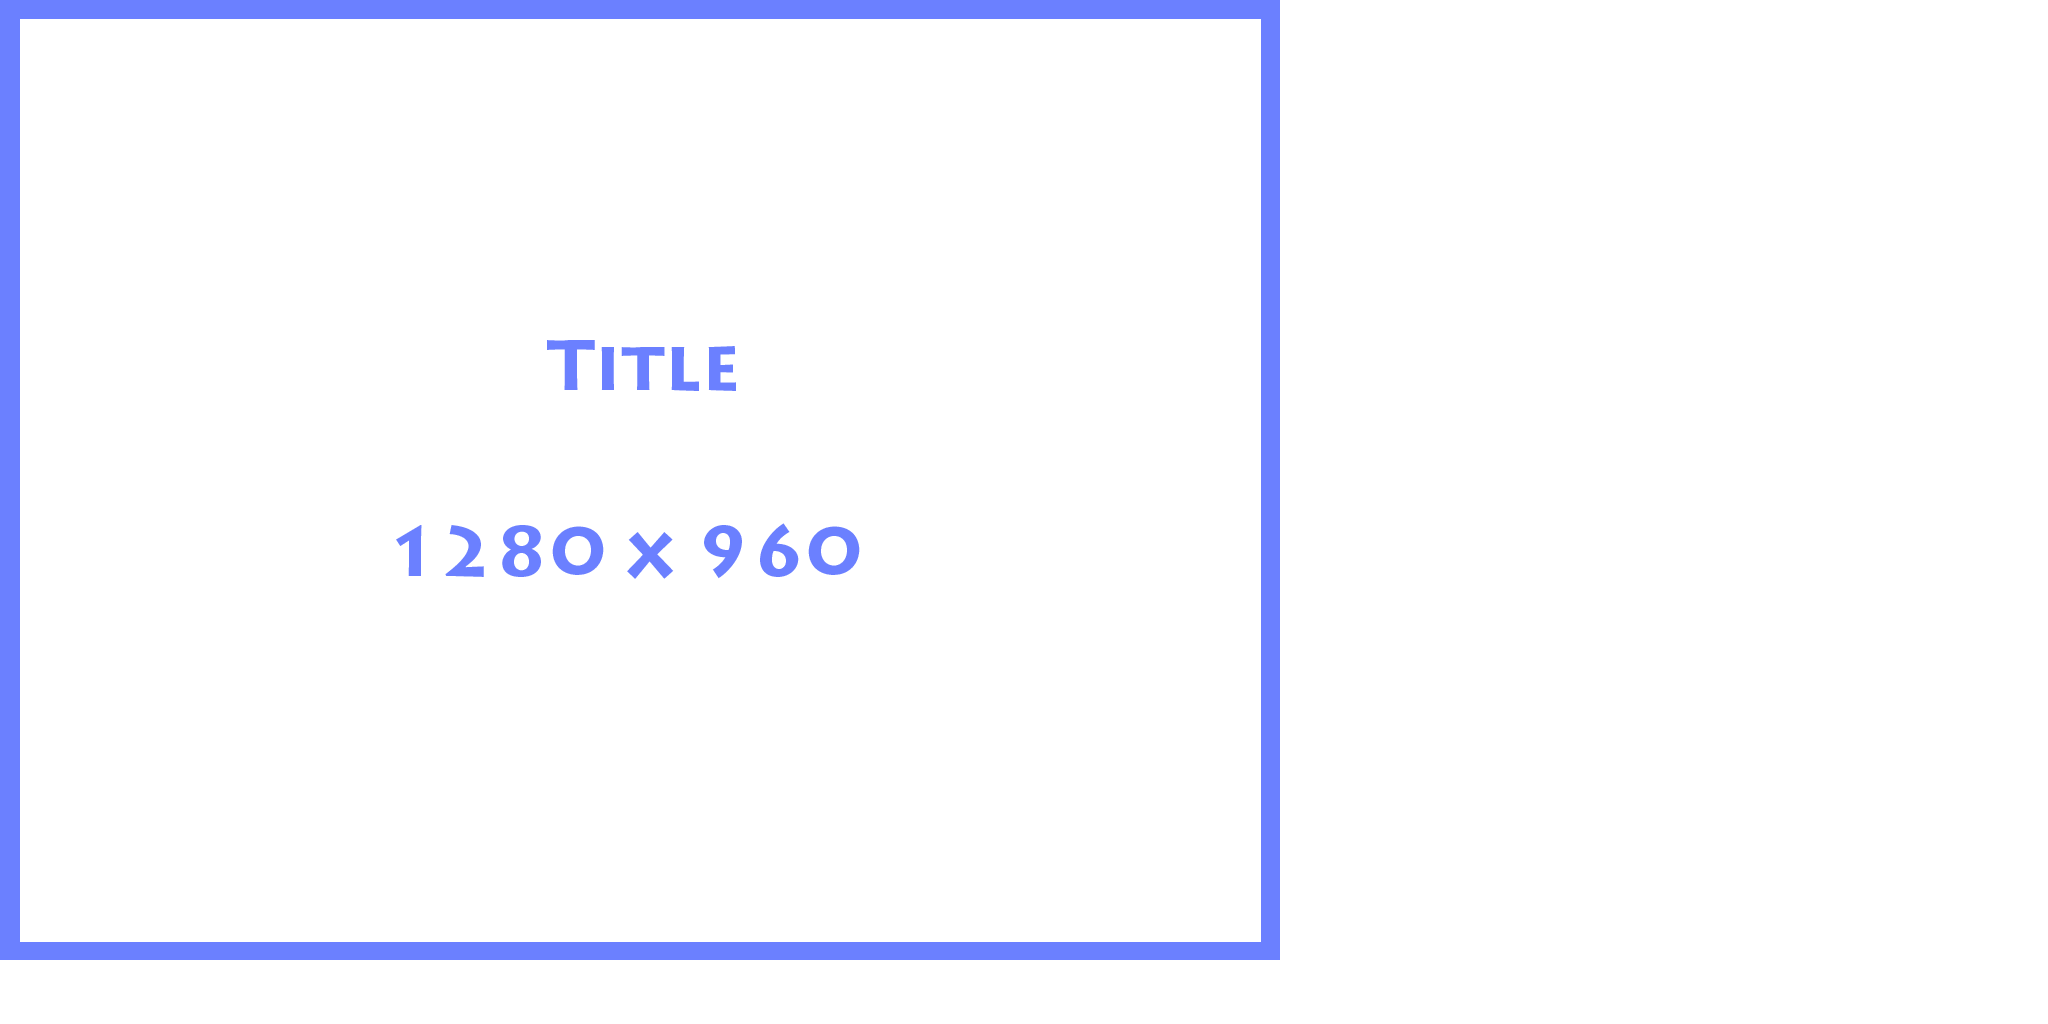
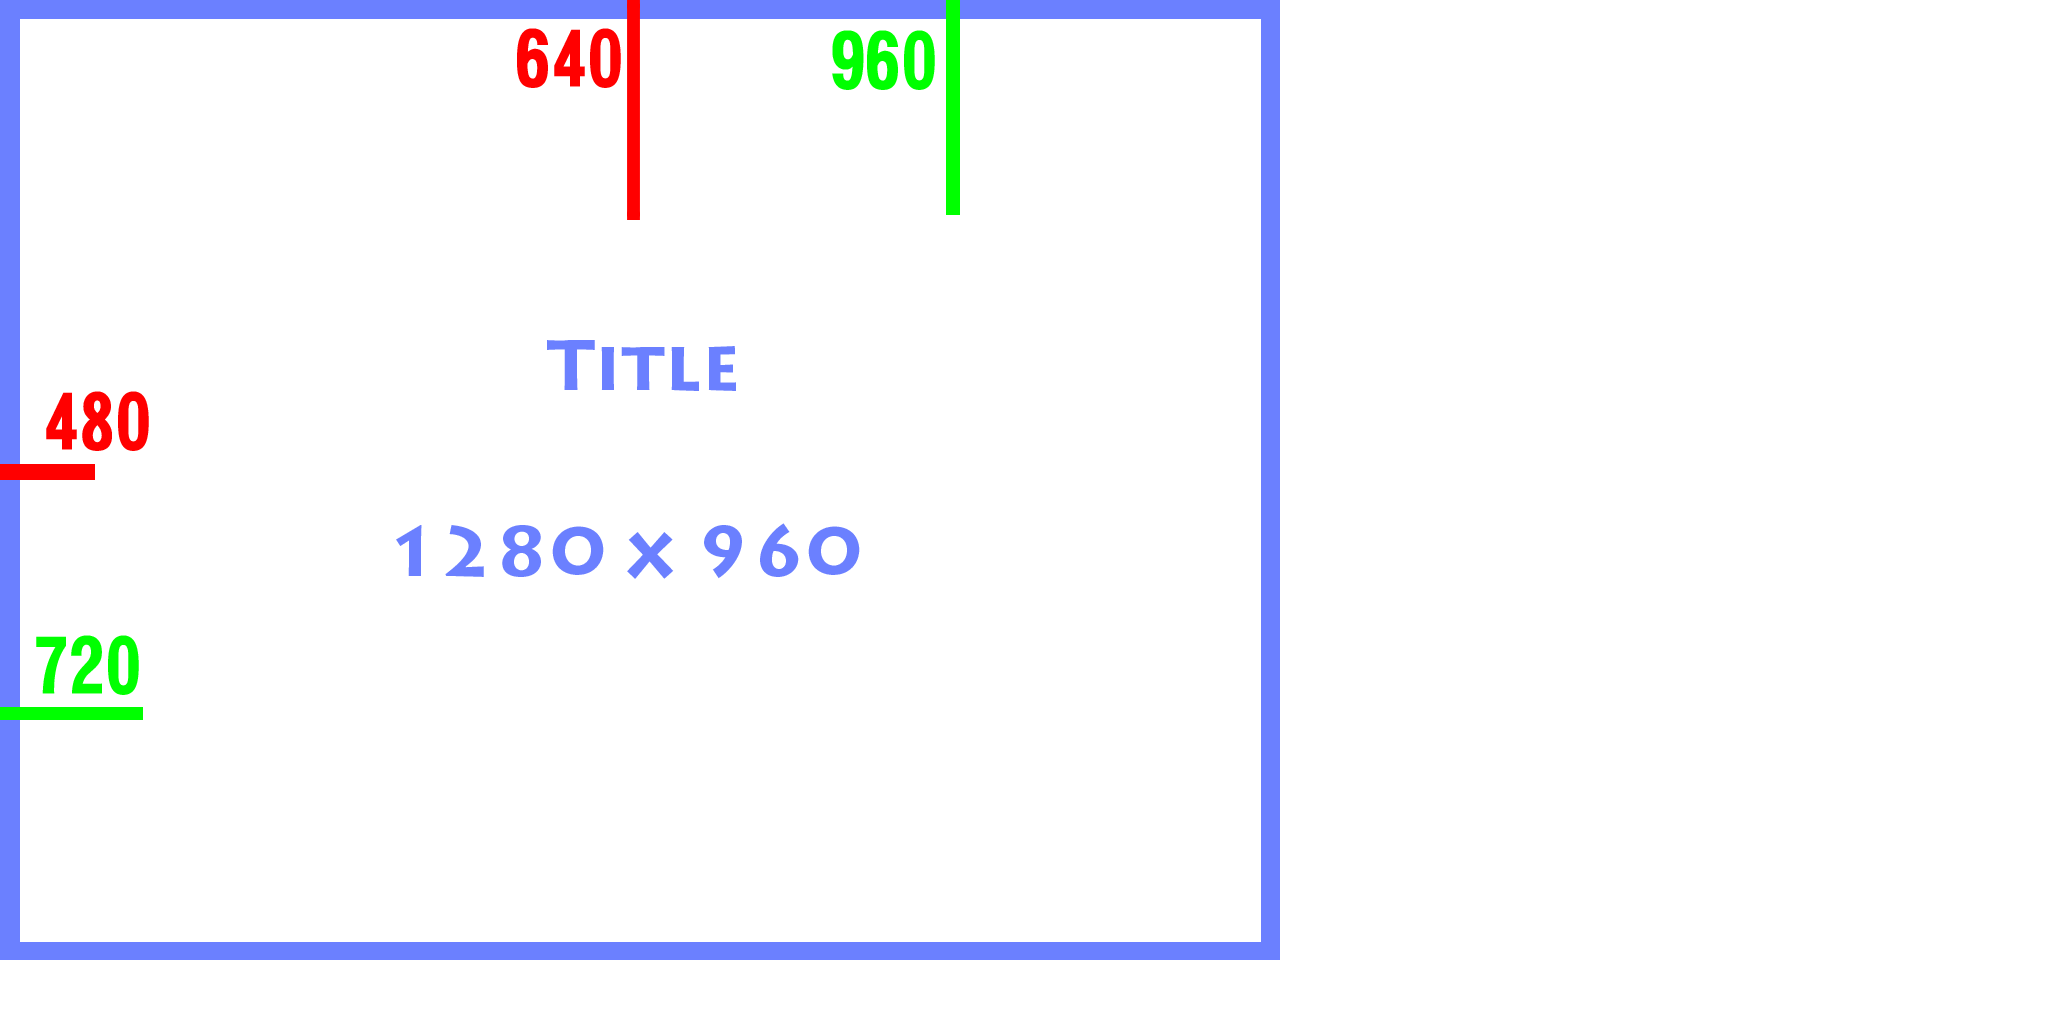
バックバッファサイズの変更 一時コミット

diff --git a/01_DirectXLibrary/source/Dx3D.cpp b/01_DirectXLibrary/source/Dx3D.cpp
@@ -14,7 +14,6 @@
 //-------------------------------------------------------------------------------------------------
 namespace GAME
 {
-
 	//------------------------------------------
 	//	Static実体
 	//------------------------------------------
@@ -25,9 +24,12 @@ namespace GAME
 	//	コンストラクタ
 	//------------------------------------------
 	Dx3D::Dx3D () 
-		:	m_lpD3D(nullptr), m_lpD3DDevice(nullptr), m_lpSprite(nullptr), 
-			m_lpBackBuffer(nullptr), m_lpTexture(nullptr), m_lpTextureSurface(nullptr), m_lpSurface(nullptr)
-			, m_fullscreen ( false ), m_window_x ( 640 ), m_window_y ( 480 )
+		: m_lpD3D(nullptr), m_lpD3DDevice(nullptr), m_lpSprite(nullptr)
+		, m_lpBackBuffer(nullptr), m_lpTexture(nullptr), m_lpTextureSurface(nullptr), m_lpSurface(nullptr)
+		, m_fullscreen ( false )
+		//, m_window_x ( WINDOW_WIDTH ), m_window_y ( WINDOW_HEIGHT )
+		//, m_window_x ( 640 ), m_window_y ( 480 )
+		, m_window_x ( 1280 ), m_window_y ( 960 )
 	{
 	}
 
@@ -115,7 +117,6 @@ namespace GAME
 		//zバッファ
 		m_lpD3DDevice->SetRenderState ( D3DRS_ZENABLE, D3DZB_TRUE );
 
-#if	0
 		//深度バッファテスト
 		D3DCAPS9 caps;
 		hr = m_lpD3DDevice->GetDeviceCaps ( &caps );
@@ -135,6 +136,7 @@ namespace GAME
 												D3DFMT_D16 );
 //													D3DFMT_D16_LOCKABLE );
 		FAILED_DXTRACE_THROW ( hr, _T("深度バッファテスト") );
+#if	0
 #endif	//0
 
 		//スプライトの作成
@@ -142,35 +144,55 @@ namespace GAME
 		FAILED_DXTRACE_THROW ( hr, _T("スプライトの作成") );
 
 
-#if 0
 		//-----------------------------------
-		//1280*960に書き込み、640*480に縮小
+		//ゲームウィンドウサイズ(原寸・書込対象)1280*960に書き込み、ウィンドウサイズ(表示上・変更可能)640*480に縮小
+		//GAME_WINDOW_WIDTH, WINDOW_WIDTH
 
-		//バックバッファの取得
+		//デバイスのバックバッファを取得
 		hr = m_lpD3DDevice->GetBackBuffer ( 0, 0, D3DBACKBUFFER_TYPE_MONO, &m_lpBackBuffer );
 		FAILED_DXTRACE_THROW ( hr, _T("バックバッファの取得") );
 
-		//サーフェスデスクリプションの取得
+
+
+		//バックバッファの深度バッファを取得
+		hr = m_lpD3DDevice->GetDepthStencilSurface ( & m_lpBackDepthSurface );
+
+
+
+		//バックバッファのサーフェスデスクリプションの取得
 		D3DSURFACE_DESC desc;
 		hr = m_lpBackBuffer->GetDesc( &desc );
 		FAILED_DXTRACE_THROW ( hr, _T("サーフェスデスクリプションの取得") );
 
 		//書込用一時テクスチャの作成
-		hr = m_lpD3DDevice->CreateTexture ( 1280, 960, 1, D3DUSAGE_RENDERTARGET, desc.Format, D3DPOOL_DEFAULT, &m_lpTexture, nullptr );
+//		const UINT GW = GAME_WINDOW_WIDTH;
+//		const UINT GH = GAME_WINDOW_HEIGHT;
+//		const UINT GW = 640;
+//		const UINT GH = 480;
+		const UINT GW = 1280;
+		const UINT GH = 960;
+//		const UINT GW = 2048;
+//		const UINT GH = 1024;
+
+		D3DPOOL pl = D3DPOOL_DEFAULT;
+		hr = m_lpD3DDevice->CreateTexture ( GW, GH, MP_LV_1, D3DUSAGE_RENDERTARGET, desc.Format, pl, &m_lpTexture, nullptr );
 		FAILED_DXTRACE_THROW ( hr, _T("テクスチャの作成") );
 
 		//テクスチャにおけるサーフェスへのポインタを取得する
 		hr = m_lpTexture->GetSurfaceLevel ( 0, &m_lpTextureSurface );
 		FAILED_DXTRACE_THROW ( hr, _T("テクスチャにおけるサーフェスへのポインタを取得する") );
 
-		//テクスチャサーフェスのバックバッファ状態を取得
+		//テクスチャサーフェスのデスクリプションを取得
 		hr = m_lpTextureSurface->GetDesc( &desc );
-		FAILED_DXTRACE_THROW ( hr, _T("テクスチャサーフェスのバックバッファ状態を取得") );
+		FAILED_DXTRACE_THROW ( hr, _T("テクスチャサーフェスのデスクリプションを取得") );
 
-		//サーフェスの作成
-		hr = m_lpD3DDevice->CreateOffscreenPlainSurface( 1280, 960, desc.Format, D3DPOOL_DEFAULT, &m_lpSurface, nullptr );
+		//オフスクリーンサーフェスの作成
+		hr = m_lpD3DDevice->CreateOffscreenPlainSurface( GW, GH, desc.Format, D3DPOOL_DEFAULT, &m_lpSurface, nullptr );
 		FAILED_DXTRACE_THROW ( hr, _T("サーフェスの作成") );
+#if 0
 #endif // 0
+
+
 	}
 
 	//-------------------------------------------------------------------------------------------------
@@ -209,14 +231,22 @@ namespace GAME
 	{
 		if ( ! m_lpD3DDevice ) { return; }
 
+
+		m_lpD3DDevice->SetDepthStencilSurface ( m_lpBackDepthSurface );
+
+
 		//書き込み対象を一時テクスチャサーフェスに変更
-//		m_lpD3DDevice->SetRenderTarget ( 0, m_lpTextureSurface );
+		m_lpD3DDevice->SetRenderTarget ( 0, m_lpTextureSurface );
+//		m_lpD3DDevice->SetRenderTarget ( 0, m_lpSurface );
 
 		//バックバッファをクリア
+		DWORD flag = D3DCLEAR_TARGET | D3DCLEAR_ZBUFFER;
 //		m_lpD3DDevice->Clear ( 0, nullptr, D3DCLEAR_TARGET, D3DCOLOR_XRGB ( 210, 250, 250 ), 0, 0 );
+		m_lpD3DDevice->Clear ( 0, nullptr, flag, D3DCOLOR_XRGB ( 210, 250, 250 ), 1.f, 0 );
+
 		//バックバッファ,zバッファをクリア
 		/* zバッファをクリアするときは引数float zの値を更新する必要がある */
-		m_lpD3DDevice->Clear ( 0, nullptr, D3DCLEAR_TARGET | D3DCLEAR_ZBUFFER, 0xffa0a0a0, 1.0f, 0 );
+//		m_lpD3DDevice->Clear ( 0, nullptr, flag, 0xffa0a0a0, 1.0f, 0 );
 
 		//描画開始
 		m_lpD3DDevice->BeginScene ();
@@ -234,17 +264,35 @@ namespace GAME
 		m_lpD3DDevice->EndScene ();
 
 		//書き込みをバックバッファサーフェスに戻す
-//		m_lpD3DDevice->SetRenderTarget ( 0, m_lpBackBuffer );
+		m_lpD3DDevice->SetRenderTarget ( 0, m_lpBackBuffer );
 
-#if 0
-		//拡大縮小のテスト
+		m_lpD3DDevice->BeginScene ();
+//		m_lpD3DDevice->Clear ( 0, nullptr, D3DCLEAR_TARGET, 0xffa0a0a0, 0, 0 );
+		m_lpD3DDevice->Clear ( 0, nullptr, D3DCLEAR_TARGET | D3DCLEAR_ZBUFFER, 0xffa0a0a0, 1.0f, 0 );
+		m_lpD3DDevice->EndScene ();
+
+		//テクスチャサーフェスからデバイスのバックバッファに転送
 		RECT rectSrc, rectDest;
-//		SetRect( &rectSrc, 0+(int)m_zoom, 0+(int)(m_zoom * 0.67), 640-(int)m_zoom, 480-(int)(m_zoom * 0.67) );
-		SetRect( &rectSrc, 0, 0, 1280, 960 );
-		SetRect( &rectDest, 0, 0, 640, 480 );
-//		m_lpD3DDevice->StretchRect ( m_lpTextureSurface, &rectSrc, m_lpBackBuffer, &rectDest, D3DTEXF_NONE );
+//		SetRect ( &rectSrc, 0+(int)m_zoom, 0+(int)(m_zoom * 0.67), 640-(int)m_zoom, 480-(int)(m_zoom * 0.67) );
+//		SetRect ( &rectSrc, 0, 0, 640, 480 );
+		SetRect ( &rectSrc, 0, 0, 1280, 960 );
+//		SetRect ( &rectSrc, 0, 0, GAME_WINDOW_WIDTH, GAME_WINDOW_HEIGHT );
 
+//		SetRect ( &rectDest, 0, 0, m_window_x, m_window_y );
+		//SetRect ( &rectDest, 0, 0, 320, 240 );
+		SetRect ( &rectDest, 0, 0, 640, 480 );
+		//SetRect ( &rectDest, 0, 0, 1280, 960 );
+//		SetRect ( &rectDest, 0, 0, WINDOW_WIDTH, WINDOW_HEIGHT );
+
+		HRESULT hr;
+		hr = m_lpD3DDevice->StretchRect ( m_lpTextureSurface, &rectSrc, m_lpBackBuffer, &rectDest, D3DTEXF_NONE );
+//		hr = m_lpD3DDevice->StretchRect ( m_lpSurface, &rectSrc, m_lpBackBuffer, &rectDest, D3DTEXF_NONE );
+
+		RECT tRect = { 110, 240, 880, 600 };
+//		hr = m_lpD3DDevice->StretchRect ( m_lpTextureSurface, &rectSrc, m_lpBackBuffer, &tRect, D3DTEXF_NONE );
+#if 0
 #endif // 0
+
 		//バックバッファを表示
 		m_lpD3DDevice->Present ( nullptr, nullptr, nullptr, nullptr );
 	}
@@ -257,8 +305,9 @@ namespace GAME
 	{
 		if ( ! m_lpSprite ) { return; }
 		m_lpSprite->Begin ( D3DXSPRITE_ALPHABLEND );	//スプライト描画開始
+
 		//zバッファ
-//		m_lpD3DDevice->SetRenderState ( D3DRS_ZENABLE, D3DZB_TRUE );
+		m_lpD3DDevice->SetRenderState ( D3DRS_ZENABLE, D3DZB_TRUE );
 	}
 
 
@@ -320,6 +369,8 @@ namespace GAME
 		m_lpD3DDevice->DrawPrimitive ( primitiveType, startVertex, primitiveCount );
 	}
 
+
+	//-----------------------------------------------------------------------
 	//テクスチャの作成
 	void Dx3D::CreateTextureFromMem ( LPCVOID pSrcData, UINT SrcDataSize, TX * ppTexture )
 	{
@@ -345,8 +396,6 @@ namespace GAME
 
 		param.BackBufferWidth	= m_window_x;
 		param.BackBufferHeight	= m_window_y;
-//		param.BackBufferWidth	= GAME_WINDOW_WIDTH;
-//		param.BackBufferHeight	= GAME_WINDOW_HEIGHT;
 		param.BackBufferFormat	= dm.Format;	//バックバッファのピクセルフォーマット(デフォルトアダプタと同一にする)
 		param.BackBufferCount	= 1;
 		param.SwapEffect		= D3DSWAPEFFECT_DISCARD;

diff --git a/include/Dx3D.h b/include/Dx3D.h
@@ -58,6 +58,8 @@ namespace GAME
 		LPDIRECT3DSURFACE9		m_lpTextureSurface;		//テクスチャとするサーフェスポインタ
 		LPDIRECT3DSURFACE9		m_lpSurface;			//サーフェスポインタ
 
+		LPDIRECT3DSURFACE9		m_lpBackDepthSurface;		//深度バッファサーフェスポインタ
+
 		bool					m_fullscreen;			//[フルスクリーン] / [ウィンドウ]
 //		double					m_zoom;					//拡大値(0-320)
 //		D3DXVECTOR2				m_focus;				//スクリーン表示位置の原点

diff --git a/08_GameLibrary/source/FadeRect.cpp b/08_GameLibrary/source/FadeRect.cpp
@@ -18,7 +18,8 @@ namespace GAME
 	: m_color0 ( 0x00000000UL ), m_color1 ( 0xff000000UL )
 	{
 		PrmRect::SetValid ( false );
-		PrmRect::SetRect ( 0, 0, 1.f * WINDOW_WIDTH, 1.f * WINDOW_HEIGHT );
+//		PrmRect::SetRect ( 0, 0, 1.f * WINDOW_WIDTH, 1.f * WINDOW_HEIGHT );
+		PrmRect::SetRect ( 0, 0, 1.f * 1280, 1.f * 960 );
 		PrmRect::SetAllZ ( Z_FADE );
 		m_timer = make_shared < Timer > ();
 	}

diff --git a/include/GameGraphicList.h b/include/GameGraphicList.h
@@ -66,7 +66,8 @@ namespace GAME
 	using GrpLst = GameGraphicList;
 	using UP_GrpLst = unique_ptr < GrpLst >;
 
-#define		GRPLST_NEW		GrpLst::Inst()->NewTaskList
+#define		GRPLST_CREATE	GrpLst::Create
+#define		GRPLST_MAKE		GrpLst::Inst()->NewTaskList
 #define		GRPLST_INSERT	GrpLst::Inst()->InsertByZ
 #define		GRPLST_ERASE	GrpLst::Inst()->Erase
 #define		GRPLST_RESET	GrpLst::Inst()->Reset

diff --git a/include/DxDefine.h b/include/DxDefine.h
@@ -51,6 +51,12 @@ using L_VEC3 = list < VEC3 >;
 //色
 using _CLR = D3DXCOLOR;
 
+//ミップマップレベル
+enum
+{
+	MP_LV_1 = 1,
+};
+
 
 }	//namespace GAME
 
